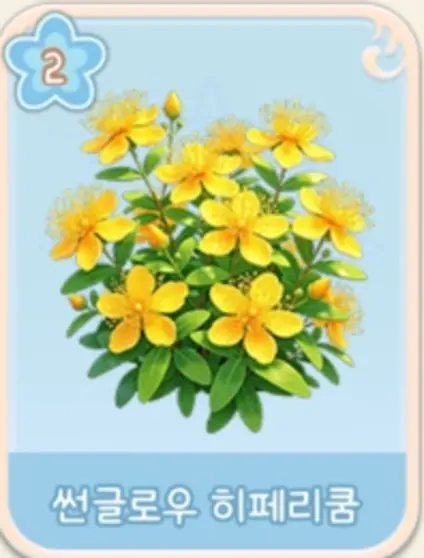
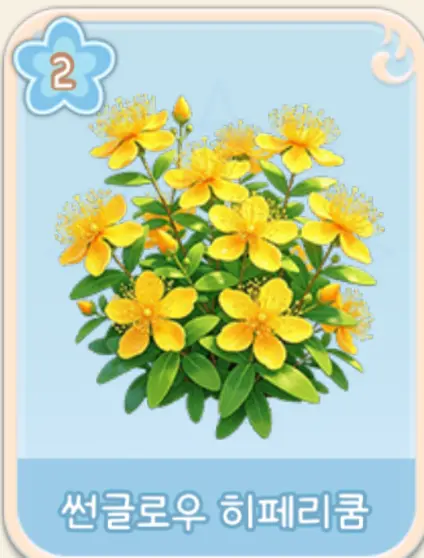
Add four missing N-grade flowers

diff --git a/index.html b/index.html
@@ -6,7 +6,7 @@
 
 const imageAliases=
 [["적염 괴화","적염규화"],["얕은 여울의 모래성","맑은 여울의 모래성"],["홍운 납매","홍운 남매"],["진홍빛 납매","진홍빛 남매"],["비령추란","비령축란"],["봄 살구빛 옷자락","봄 살구빛 웃자락"],["반짝 솜토끼","반짝 숨토끼"],["옛뜰 잔향","구정연향"],["유벽 메코놉시스","유백 메코놉시스"],["오렌지꿀 버베나","오렌지꽃 버베나"],["귤홍 윙윙 장미","금홍 윙윙 장미"],["스노우 씰 샤베트","스노우 셀 샤베트"],["용금 아네모네","용궁 아네모네"],["붉은불꽃 아네모네","붉은별꽃 아네모네"],["꿈의 보라 으아리","꿈의 보라 오아리"],["영롱한 얼음빛 납매","영롱한 얼음빛 남매"],["황금  가시 장미","황금 가시 장미"],["꾀꼬리 장미","꼬꼬리 장미"],["황금목 아마릴리스","황금국 아마릴리스"]];
-    s=s.replace('const IMG=new Map',JSON.stringify(imageAliases)+'.forEach(([correct,legacy])=>{if(IMAGES[legacy])IMAGES[correct]=IMAGES[legacy]});Object.assign(IMAGES,'+JSON.stringify(missingImages)+');Object.assign(IMAGES,'+JSON.stringify({"별빛 입맞춤 구름 양":"./images/flower-assets/ef85bb64ab07d385f893.webp","비단 꽃부채":"./images/flower-assets/f311f5d79d0fca3bbedb.webp","수박 스위트덕":"./images/flower-assets/22b17ecd767bfdeb109b.webp","금빛 솜털 삼지닥나무":"./images/flower-assets/card-refresh-20260913-15417aad295e.webp","눈꽃 금어초":"./images/flower-assets/e3168d2b0c0cc7fe7d53.webp","묵옥 아네모네":"./images/flower-assets/925cc5576aa737cda0ff.webp","벚꽃 핑크 설강화":"./images/flower-assets/cd2021a5d72b1cb89a21.webp","붉은태양 히비스커스":"./images/flower-assets/5d16b7859d425a229a9e.webp","연분홍 금어초":"./images/flower-assets/ea6f8d4689701fdb1290.webp","푸른 솜털 국화":"./images/flower-assets/card-refresh-20260913-eb988dd5002d.webp","핑크 페더 라크스퍼":"./images/flower-assets/card-refresh-20260913-cdd9f8c6b100.webp","하늘색 금어초":"./images/flower-assets/38d2e0fa2fe56901f9ea.webp","개상사화":"./images/flower-assets/b7872140bce16725f174.webp","따뜻한 등불":"./images/flower-assets/card-refresh-20260913-28a04239381e.webp","순백 폼폼 국화":"./images/flower-assets/037b34be0ef9652a8f6f.webp","연귤색 폼폼 국화":"./images/flower-assets/de0d566fdaf9562d4456.webp","연노랑 녹융호":"./images/flower-assets/09c44fb323e9dd13c9bf.webp","연분홍 폼폼 국화":"./images/flower-assets/ada9079ba7dc7b8afa7f.webp","자홍깃 재클린":"./images/flower-assets/card-refresh-20260913-cff6215d5a22.webp","주사 비단 등불":"./images/flower-assets/card-refresh-20260913-fbeeaff6b65e.webp","촉영 해당화":"./images/flower-assets/c235706807e5e4babcba.webp","하얀 눈의 영광":"./images/flower-assets/card-refresh-20260913-c51a040da2bf.webp"})+');Object.assign(IMAGES,'+JSON.stringify({"불꽃심장 꿈조개":"./images/flower-assets/card-fireheart-dream-shell-20260914.webp","은하수에 실은 꿈":"./images/flower-assets/card-milky-way-dream-20260914.webp","자색 앵초":"./images/flower-assets/card-purple-primrose-20260914.webp","귤빛 불꽃 시클라멘":"./images/flower-assets/card-orange-flame-cyclamen-20260914.webp","금실 익소라":"./images/flower-assets/card-golden-thread-ixora-20260914.webp","노란 눈의 영광":"./images/flower-assets/card-yellow-glory-of-snow-20260914.webp","보라솜털 시클라멘":"./images/flower-assets/card-purple-fuzz-cyclamen-20260914.webp","블루스타 납매":"./images/flower-assets/card-bluestar-wintersweet-20260914.webp"})+');const IMG=new Map');
+    s=s.replace('const IMG=new Map',JSON.stringify(imageAliases)+'.forEach(([correct,legacy])=>{if(IMAGES[legacy])IMAGES[correct]=IMAGES[legacy]});Object.assign(IMAGES,'+JSON.stringify(missingImages)+');Object.assign(IMAGES,'+JSON.stringify({"별빛 입맞춤 구름 양":"./images/flower-assets/ef85bb64ab07d385f893.webp","비단 꽃부채":"./images/flower-assets/f311f5d79d0fca3bbedb.webp","수박 스위트덕":"./images/flower-assets/22b17ecd767bfdeb109b.webp","금빛 솜털 삼지닥나무":"./images/flower-assets/card-refresh-20260913-15417aad295e.webp","눈꽃 금어초":"./images/flower-assets/e3168d2b0c0cc7fe7d53.webp","묵옥 아네모네":"./images/flower-assets/925cc5576aa737cda0ff.webp","벚꽃 핑크 설강화":"./images/flower-assets/cd2021a5d72b1cb89a21.webp","붉은태양 히비스커스":"./images/flower-assets/5d16b7859d425a229a9e.webp","연분홍 금어초":"./images/flower-assets/ea6f8d4689701fdb1290.webp","푸른 솜털 국화":"./images/flower-assets/card-refresh-20260913-eb988dd5002d.webp","핑크 페더 라크스퍼":"./images/flower-assets/card-refresh-20260913-cdd9f8c6b100.webp","하늘색 금어초":"./images/flower-assets/38d2e0fa2fe56901f9ea.webp","개상사화":"./images/flower-assets/b7872140bce16725f174.webp","따뜻한 등불":"./images/flower-assets/card-refresh-20260913-28a04239381e.webp","순백 폼폼 국화":"./images/flower-assets/037b34be0ef9652a8f6f.webp","연귤색 폼폼 국화":"./images/flower-assets/de0d566fdaf9562d4456.webp","연노랑 녹융호":"./images/flower-assets/09c44fb323e9dd13c9bf.webp","연분홍 폼폼 국화":"./images/flower-assets/ada9079ba7dc7b8afa7f.webp","자홍깃 재클린":"./images/flower-assets/card-refresh-20260913-cff6215d5a22.webp","주사 비단 등불":"./images/flower-assets/card-refresh-20260913-fbeeaff6b65e.webp","촉영 해당화":"./images/flower-assets/c235706807e5e4babcba.webp","하얀 눈의 영광":"./images/flower-assets/card-refresh-20260913-c51a040da2bf.webp"})+');Object.assign(IMAGES,'+JSON.stringify({"불꽃심장 꿈조개":"./images/flower-assets/card-fireheart-dream-shell-20260914.webp","은하수에 실은 꿈":"./images/flower-assets/card-milky-way-dream-20260914.webp","자색 앵초":"./images/flower-assets/card-purple-primrose-20260914.webp","귤빛 불꽃 시클라멘":"./images/flower-assets/card-orange-flame-cyclamen-20260914.webp","금실 익소라":"./images/flower-assets/card-golden-thread-ixora-20260914.webp","노란 눈의 영광":"./images/flower-assets/card-yellow-glory-of-snow-20260914.webp","보라솜털 시클라멘":"./images/flower-assets/card-purple-fuzz-cyclamen-20260914.webp","블루스타 납매":"./images/flower-assets/card-bluestar-wintersweet-20260914.webp"})+');Object.assign(IMAGES,'+JSON.stringify({"노란줄무늬 깃털초":"./images/flower-assets/card-yellow-striped-featherflower-20260914.webp","먹푸른 깃털초":"./images/flower-assets/card-dark-blue-featherflower-20260914.webp","연분홍 익소라":"./images/flower-assets/card-light-pink-ixora-20260914.webp"})+');const IMG=new Map');
     const css=`<style id="top3-style">
 .top3bar{margin:10px 0 0;background:var(--paper);border:1px solid var(--line);border-radius:14px;box-shadow:var(--shadow);min-height:46px;padding:9px 11px;display:flex;align-items:center;gap:8px;overflow:hidden}.top3-title{font-size:11px;font-weight:950;white-space:nowrap;color:var(--brown);flex:none}.top3-list{display:flex;align-items:center;gap:5px;min-width:0;flex:1;overflow:hidden}.top3-item{display:flex;align-items:center;gap:3px;min-width:0;flex:1;padding-left:6px;border-left:1px solid var(--line);font-size:10px;white-space:nowrap;text-decoration:none;color:inherit}.top3-item:first-child{border-left:0;padding-left:0}.top3-rank{font-size:13px;flex:none}.top3-name{font-weight:900;overflow:hidden;text-overflow:ellipsis;min-width:0;text-decoration:underline;text-underline-offset:2px}.top3-count{font-weight:950;color:var(--green);flex:none}.top3-empty{font-size:10px;color:var(--muted);font-weight:800}@media(max-width:390px){.top3bar{gap:6px;padding:8px 9px}.top3-title{font-size:10px}.top3-item{font-size:9px;padding-left:4px;gap:2px}.top3-rank{font-size:12px}}
 .stats{display:block!important}.guild-stat{padding:14px 15px 15px!important}.guild-stat-head{display:flex;align-items:center;justify-content:space-between;gap:12px}.guild-stat-head span{font-size:12px!important}.guild-count{display:flex;align-items:baseline;gap:5px;margin-top:6px;white-space:nowrap}.guild-count strong,.guild-count span,.guild-count b{font-size:13px!important;font-weight:850}.guild-count #owned{color:var(--green);font-weight:950}.guild-count #total{color:inherit}.guild-stat .progress{position:relative;height:18px;margin-top:10px;overflow:hidden}.guild-stat .progress-rate{position:absolute;inset:0;z-index:2;display:grid;place-items:center;color:#fff;font-size:11px;font-weight:950;line-height:1;text-shadow:0 1px 2px rgba(29,65,36,.6);pointer-events:none}.guild-stat #totalBar{display:none}

diff --git a/app.html b/app.html
@@ -45,6 +45,7 @@ const IMAGES=window.GUILD_CATALOG_IMAGES||{};
 Object.assign(IMAGES,{"금빛 불꽃 산란":"./images/flower-assets/card-gold-fire-scatter-20260914.webp","황금 들꽃":"./images/flower-assets/card-golden-wildflower-20260914.webp","꿀단지 꽃 이야기":"./images/flower-assets/card-honey-pot-flower-story-20260914.webp","꽃 속의 단잠":"./images/flower-assets/card-sleep-among-flowers-20260914.webp","벌꿀 꽃의 안식처":"./images/flower-assets/card-honey-flower-rest-20260914.webp","꿀들판 선경":"./images/flower-assets/card-honey-field-seongyeong-20260914.webp"});
 Object.assign(IMAGES,{"별빛 입맞춤 구름 양":"./images/flower-assets/ef85bb64ab07d385f893.webp","비단 꽃부채":"./images/flower-assets/f311f5d79d0fca3bbedb.webp","수박 스위트덕":"./images/flower-assets/22b17ecd767bfdeb109b.webp","금빛 솜털 삼지닥나무":"./images/flower-assets/card-refresh-20260913-15417aad295e.webp","눈꽃 금어초":"./images/flower-assets/e3168d2b0c0cc7fe7d53.webp","묵옥 아네모네":"./images/flower-assets/925cc5576aa737cda0ff.webp","벚꽃 핑크 설강화":"./images/flower-assets/cd2021a5d72b1cb89a21.webp","붉은태양 히비스커스":"./images/flower-assets/5d16b7859d425a229a9e.webp","연분홍 금어초":"./images/flower-assets/ea6f8d4689701fdb1290.webp","푸른 솜털 국화":"./images/flower-assets/card-refresh-20260913-eb988dd5002d.webp","핑크 페더 라크스퍼":"./images/flower-assets/card-refresh-20260913-cdd9f8c6b100.webp","하늘색 금어초":"./images/flower-assets/38d2e0fa2fe56901f9ea.webp","개상사화":"./images/flower-assets/b7872140bce16725f174.webp","따뜻한 등불":"./images/flower-assets/card-refresh-20260913-28a04239381e.webp","순백 폼폼 국화":"./images/flower-assets/037b34be0ef9652a8f6f.webp","연귤색 폼폼 국화":"./images/flower-assets/de0d566fdaf9562d4456.webp","연노랑 녹융호":"./images/flower-assets/09c44fb323e9dd13c9bf.webp","연분홍 폼폼 국화":"./images/flower-assets/ada9079ba7dc7b8afa7f.webp","자홍깃 재클린":"./images/flower-assets/card-refresh-20260913-cff6215d5a22.webp","주사 비단 등불":"./images/flower-assets/card-refresh-20260913-fbeeaff6b65e.webp","촉영 해당화":"./images/flower-assets/c235706807e5e4babcba.webp","하얀 눈의 영광":"./images/flower-assets/card-refresh-20260913-c51a040da2bf.webp"});
 Object.assign(IMAGES,{"불꽃심장 꿈조개":"./images/flower-assets/card-fireheart-dream-shell-20260914.webp","은하수에 실은 꿈":"./images/flower-assets/card-milky-way-dream-20260914.webp","자색 앵초":"./images/flower-assets/card-purple-primrose-20260914.webp","귤빛 불꽃 시클라멘":"./images/flower-assets/card-orange-flame-cyclamen-20260914.webp","금실 익소라":"./images/flower-assets/card-golden-thread-ixora-20260914.webp","노란 눈의 영광":"./images/flower-assets/card-yellow-glory-of-snow-20260914.webp","보라솜털 시클라멘":"./images/flower-assets/card-purple-fuzz-cyclamen-20260914.webp","블루스타 납매":"./images/flower-assets/card-bluestar-wintersweet-20260914.webp"});
+Object.assign(IMAGES,{"노란줄무늬 깃털초":"./images/flower-assets/card-yellow-striped-featherflower-20260914.webp","먹푸른 깃털초":"./images/flower-assets/card-dark-blue-featherflower-20260914.webp","연분홍 익소라":"./images/flower-assets/card-light-pink-ixora-20260914.webp","썬글로우 히페리쿰":"./images/flower-assets/card-sunglow-hypericum-20260914.webp"});
 // FLOWER_IMAGE_UPDATE_20260914_END
 const norm=s=>String(s||'').replace(/[\s·ㆍ•・]/g,'').toLowerCase();
 const IMG=new Map(Object.entries(IMAGES).map(([k,v])=>[norm(k),v]));

diff --git a/guild-catalog-images.js b/guild-catalog-images.js
@@ -394,3 +394,8 @@ Object.assign(window.GUILD_CATALOG_IMAGES, {
   "보라솜털 시클라멘": "./images/flower-assets/card-purple-fuzz-cyclamen-20260914.webp",
   "블루스타 납매": "./images/flower-assets/card-bluestar-wintersweet-20260914.webp"
 });
+Object.assign(window.GUILD_CATALOG_IMAGES, {
+  "노란줄무늬 깃털초": "./images/flower-assets/card-yellow-striped-featherflower-20260914.webp",
+  "먹푸른 깃털초": "./images/flower-assets/card-dark-blue-featherflower-20260914.webp",
+  "연분홍 익소라": "./images/flower-assets/card-light-pink-ixora-20260914.webp"
+});
